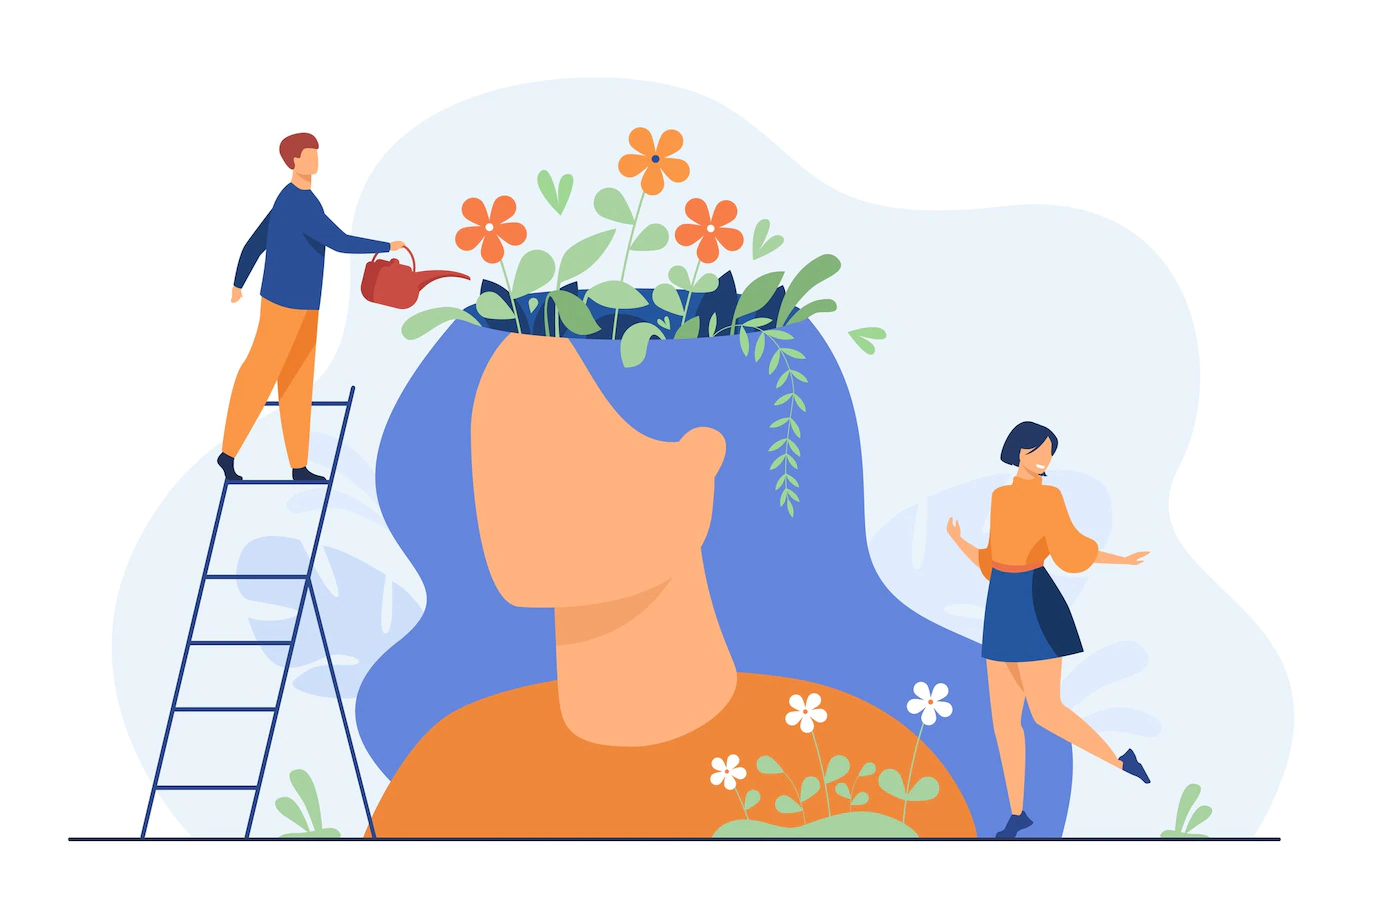
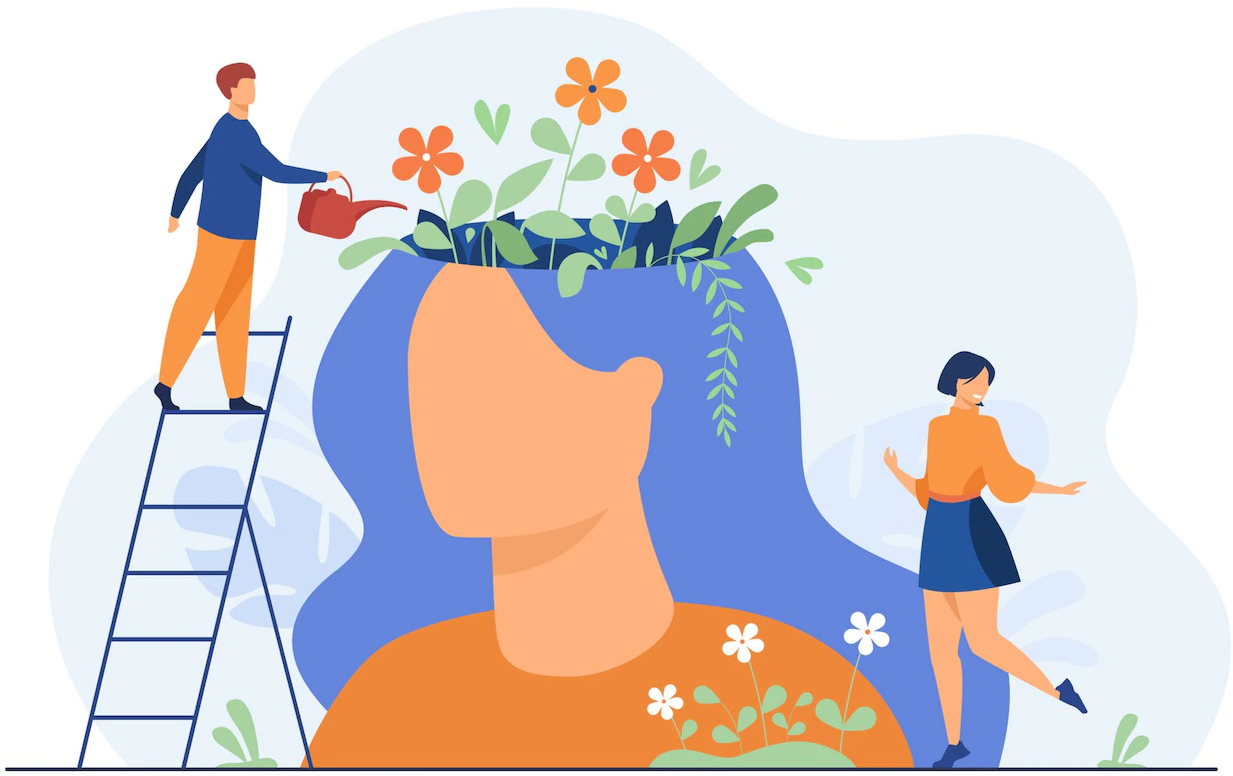
fix: update signin page

Changed region(s): [[0.0, 0.0619, 0.9862, 1.0]]

diff --git a/src/app/features/signin/signin.component.scss b/src/app/features/signin/signin.component.scss
@@ -23,15 +23,17 @@ $basic-color: #C1E9FC;
 
 .container {
   display: grid;
-  grid-template-columns: 1fr 1fr;
+  grid-template-columns: 2fr 3fr;
 
   min-height: 100vh;
   align-content: center;
-  gap: 5rem;
+  gap: 10rem;
 }
 
 img {
-  justify-self: flex-start;
+  max-width: 85%;
+
+  align-self: center;
 }
 
 .example-container mat-form-field+mat-form-field {
@@ -48,16 +50,14 @@ input.example-right-align::-webkit-inner-spin-button {
 }
 
 .form {
-  width: 30rem;
+  width: 85%;
+  max-width: 30rem;
   height: fit-content;
 
   display: grid;
-  justify-self: center;
+  justify-self: right;
   align-self: center;
   gap: 0.4rem;
-
-  margin-top: 2rem;
-  margin-left: 4rem;
 }
 
 mat-hint {
@@ -67,4 +67,9 @@ mat-hint {
 .reset {
   text-align: right;
   text-decoration: none;
+}
+
+.homepage-link {
+  text-decoration: none;
+  color: black;
 }

diff --git a/src/app/features/signin/signin.component.html b/src/app/features/signin/signin.component.html
@@ -1,4 +1,5 @@
 <mat-toolbar>
+  <a class="homepage-link" routerLink="/">Application</a>
   <span class="example-spacer"></span>
   <a routerLink="/register" class="button-signup" mat-raised-button>Sign up</a>
 </mat-toolbar>
